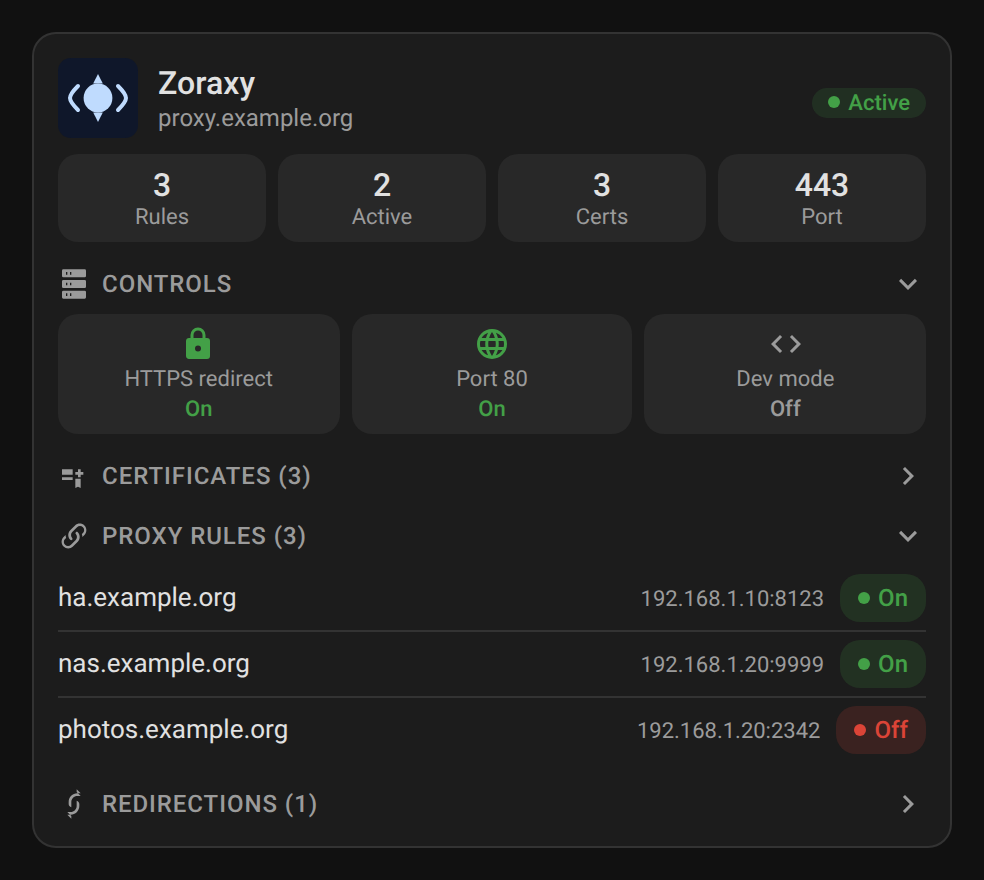
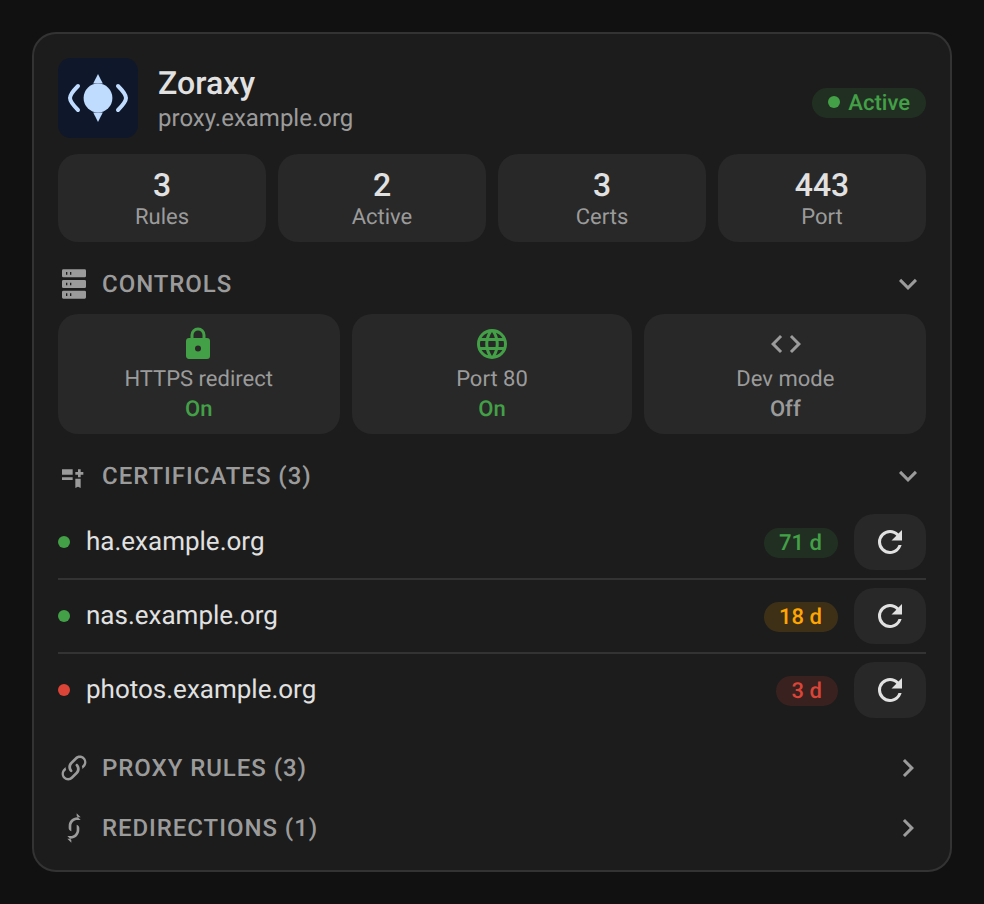
Review pass 7 fixes (no release) (#30)
Review pass 7 fixes for **ha-zoraxy** (from main at c365be0, v1.11.4).
No shipped file changes (README, screenshot script and Dependabot config
only), so **no version bump and no CHANGELOG entry**: the version stays
1.11.4.

## Fixes

### README said a new certificate needs a reload (doc ↔ code mismatch)
- **Bug:** README "Features" said the per-certificate entities exist
"per certificate found when the integration loads", and "How it works"
told users to reload the integration after adding a certificate in
Zoraxy.
- **Cause:** text left over from before 1.11.0. Since 1.11.0,
`async_track_cert_entities` (`custom_components/zoraxy/entity.py`)
listens to the coordinator and adds the entities of a new certificate at
the next poll (also announced in the 1.11.0 CHANGELOG).
- **Fix:** the code is the intended behaviour, so the README is
corrected: a certificate added later gets its entities at the next
update, without reloading. The sentence about removed certificates being
deleted at the next load is kept (it is accurate:
`_cleanup_stale_entities` only runs at setup).
- **Test:** documentation only; the behaviour itself is already covered
by the existing test suite.

### Light/dark screenshot pair of the full card showed different states
- **Bug:** `card.png` (light) had the certificates section open,
`card-dark.png` the proxy rules section, so the pair did not compare
like with like.
- **Fix:** `scripts/screenshots.py` opens the certificates section in
[…]

diff --git a/scripts/screenshots.py b/scripts/screenshots.py
@@ -86,8 +86,9 @@ STATES = dict(
 )
 
 SHOTS = [
+    # Each light/dark pair shows exactly the same state: only the theme changes.
     {"file": "card", "theme": "light", "open": ["certs"]},
-    {"file": "card-dark", "theme": "dark", "open": ["rules"]},
+    {"file": "card-dark", "theme": "dark", "open": ["certs"]},
     # The mini card, and the same card zoomed in (its detail button clicked).
     {"file": "mini", "theme": "light", "tag": "zoraxy-mini-card", "width": MINI_WIDTH},
     {"file": "mini-dark", "theme": "dark", "tag": "zoraxy-mini-card", "width": MINI_WIDTH},

diff --git a/README.md b/README.md
@@ -15,7 +15,7 @@ Home Assistant integration and Lovelace card for the [Zoraxy](https://github.com
 ## Features
 
 - Sensors for proxy rules, active rules, TLS certificates, access rules and the inbound port
-- One expiry sensor, one "expiring soon" binary sensor and one ACME renewal button per certificate found when the integration loads
+- One expiry sensor, one "expiring soon" binary sensor and one ACME renewal button per certificate (a certificate added later in Zoraxy gets its entities at the next update)
 - Switches for the HTTPS redirect, the port 80 listener and the development mode
 - A `zoraxy.toggle_proxy_rule` service to enable or disable a proxy rule from an automation
 - A Lovelace card, shipped with the integration and registered automatically:
@@ -156,7 +156,7 @@ data:
 
 ## Screenshots
 
-| Light (certificates open) | Dark (proxy rules open) |
+| Full card (certificates open) | Full card, dark (certificates open) |
 |---|---|
 | ![card](screenshots/card.png) | ![card dark](screenshots/card-dark.png) |
 
@@ -170,7 +170,7 @@ data:
 
 ## How it works
 
-The integration logs in to the Zoraxy web API, polls it at the refresh interval and logs in again when the session expires. Certificate entities are created when the integration loads: after adding a certificate in Zoraxy, reload the integration (**Settings → Devices & services → Zoraxy → Reload**) to get its entities. Entities of removed certificates are deleted at the next load.
+The integration logs in to the Zoraxy web API, polls it at the refresh interval and logs in again when the session expires. The entities of a certificate added in Zoraxy appear at the next update, without reloading the integration. Entities of removed certificates are deleted at the next load.
 
 On the card, the button next to each proxy rule calls `zoraxy.toggle_proxy_rule`; the button updates at once and the card refreshes when the integration has polled Zoraxy again. Certificates turn orange under 30 days and red under 7 days.
 
